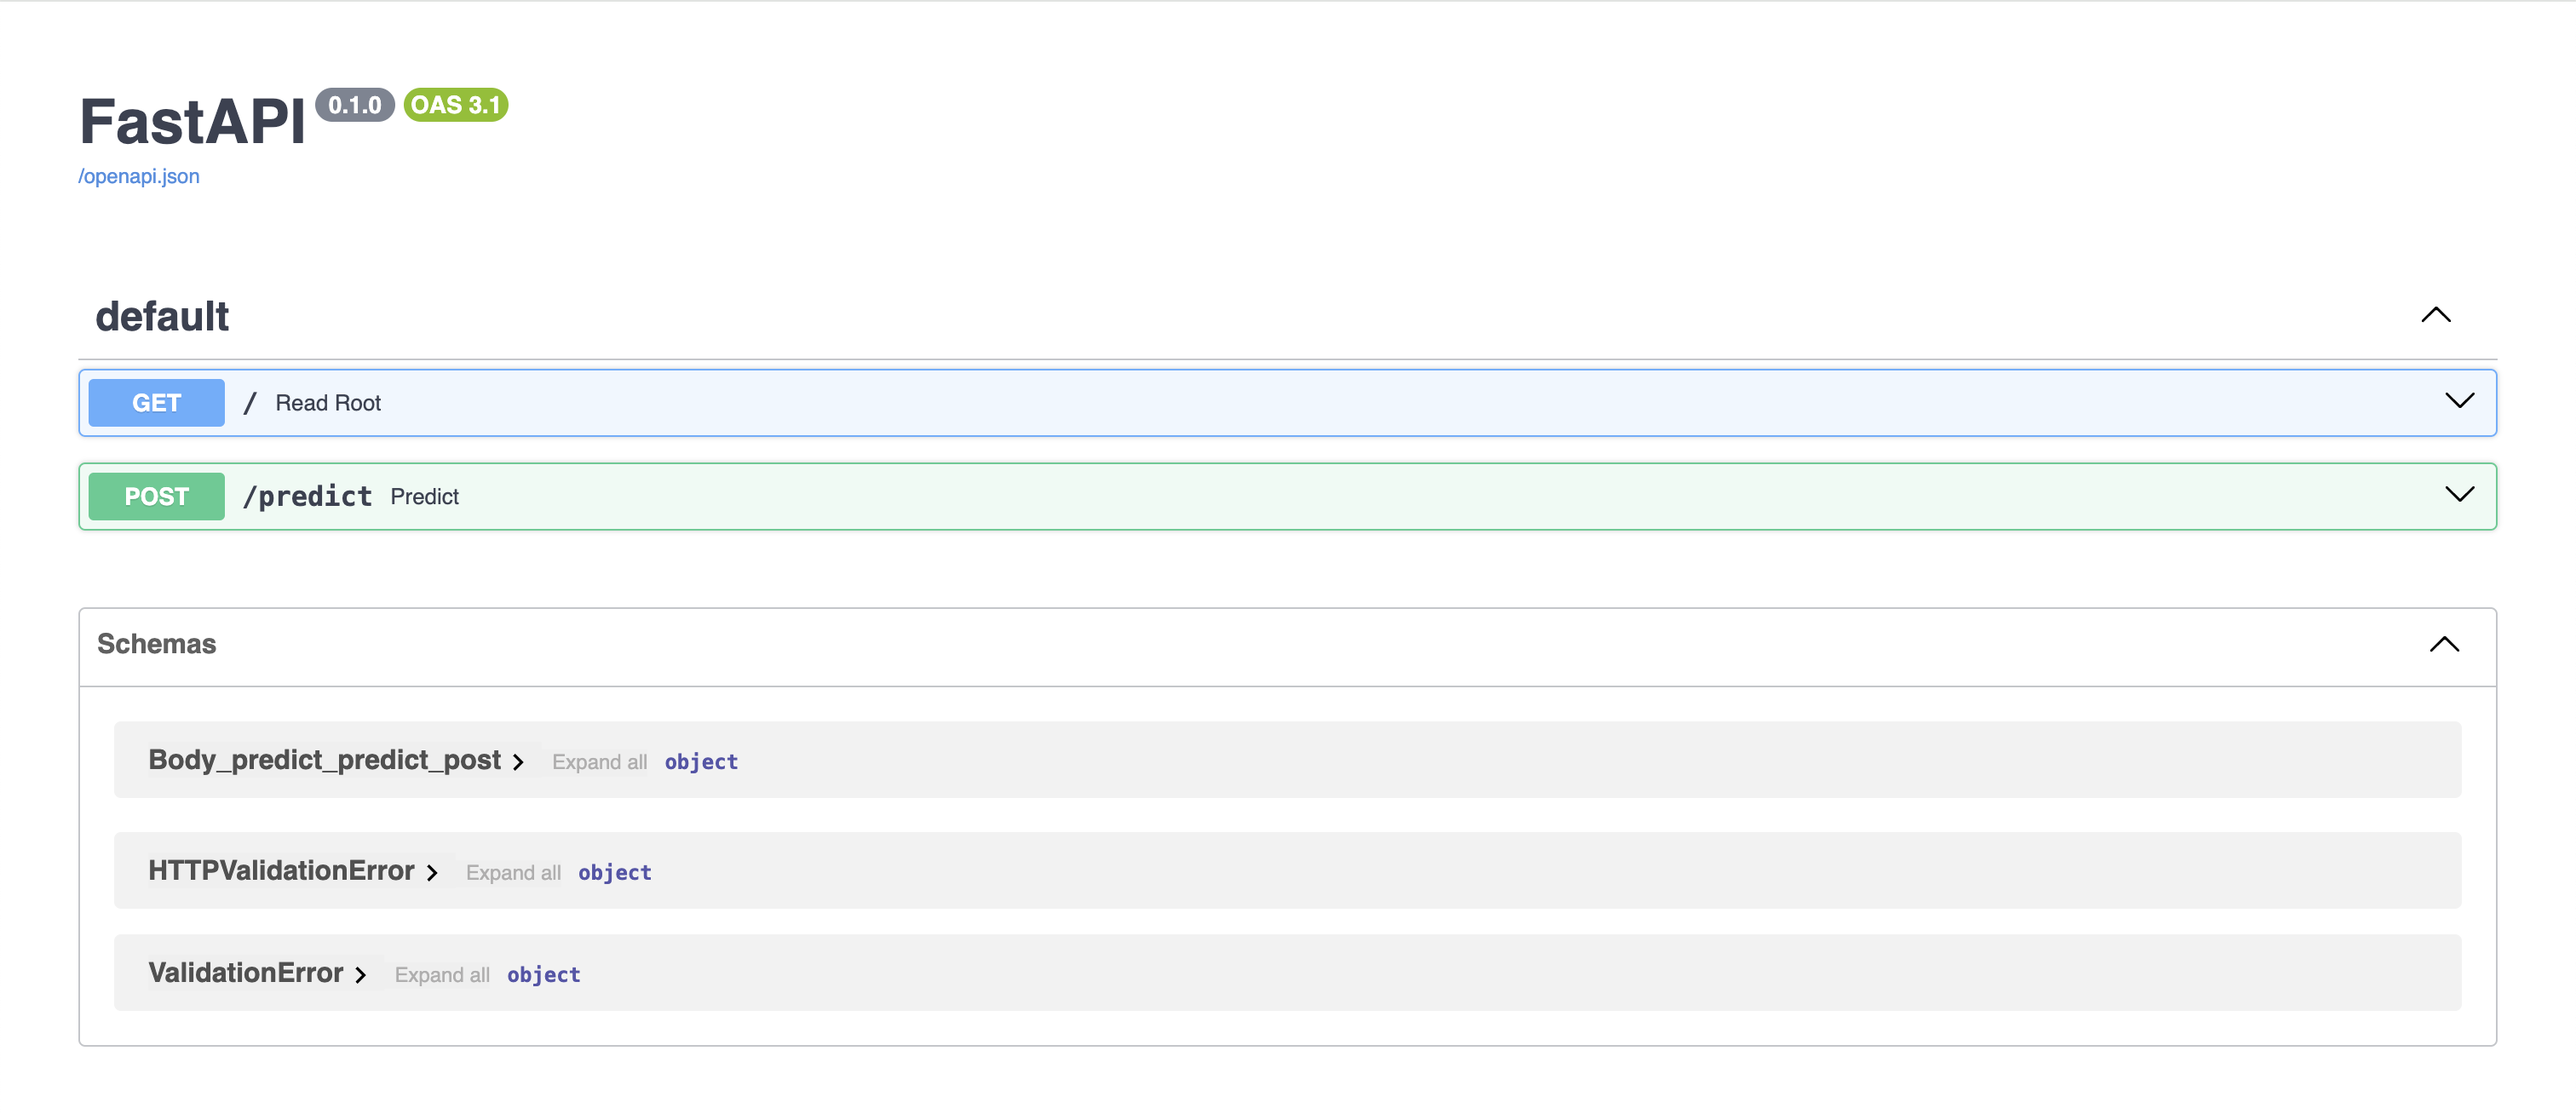
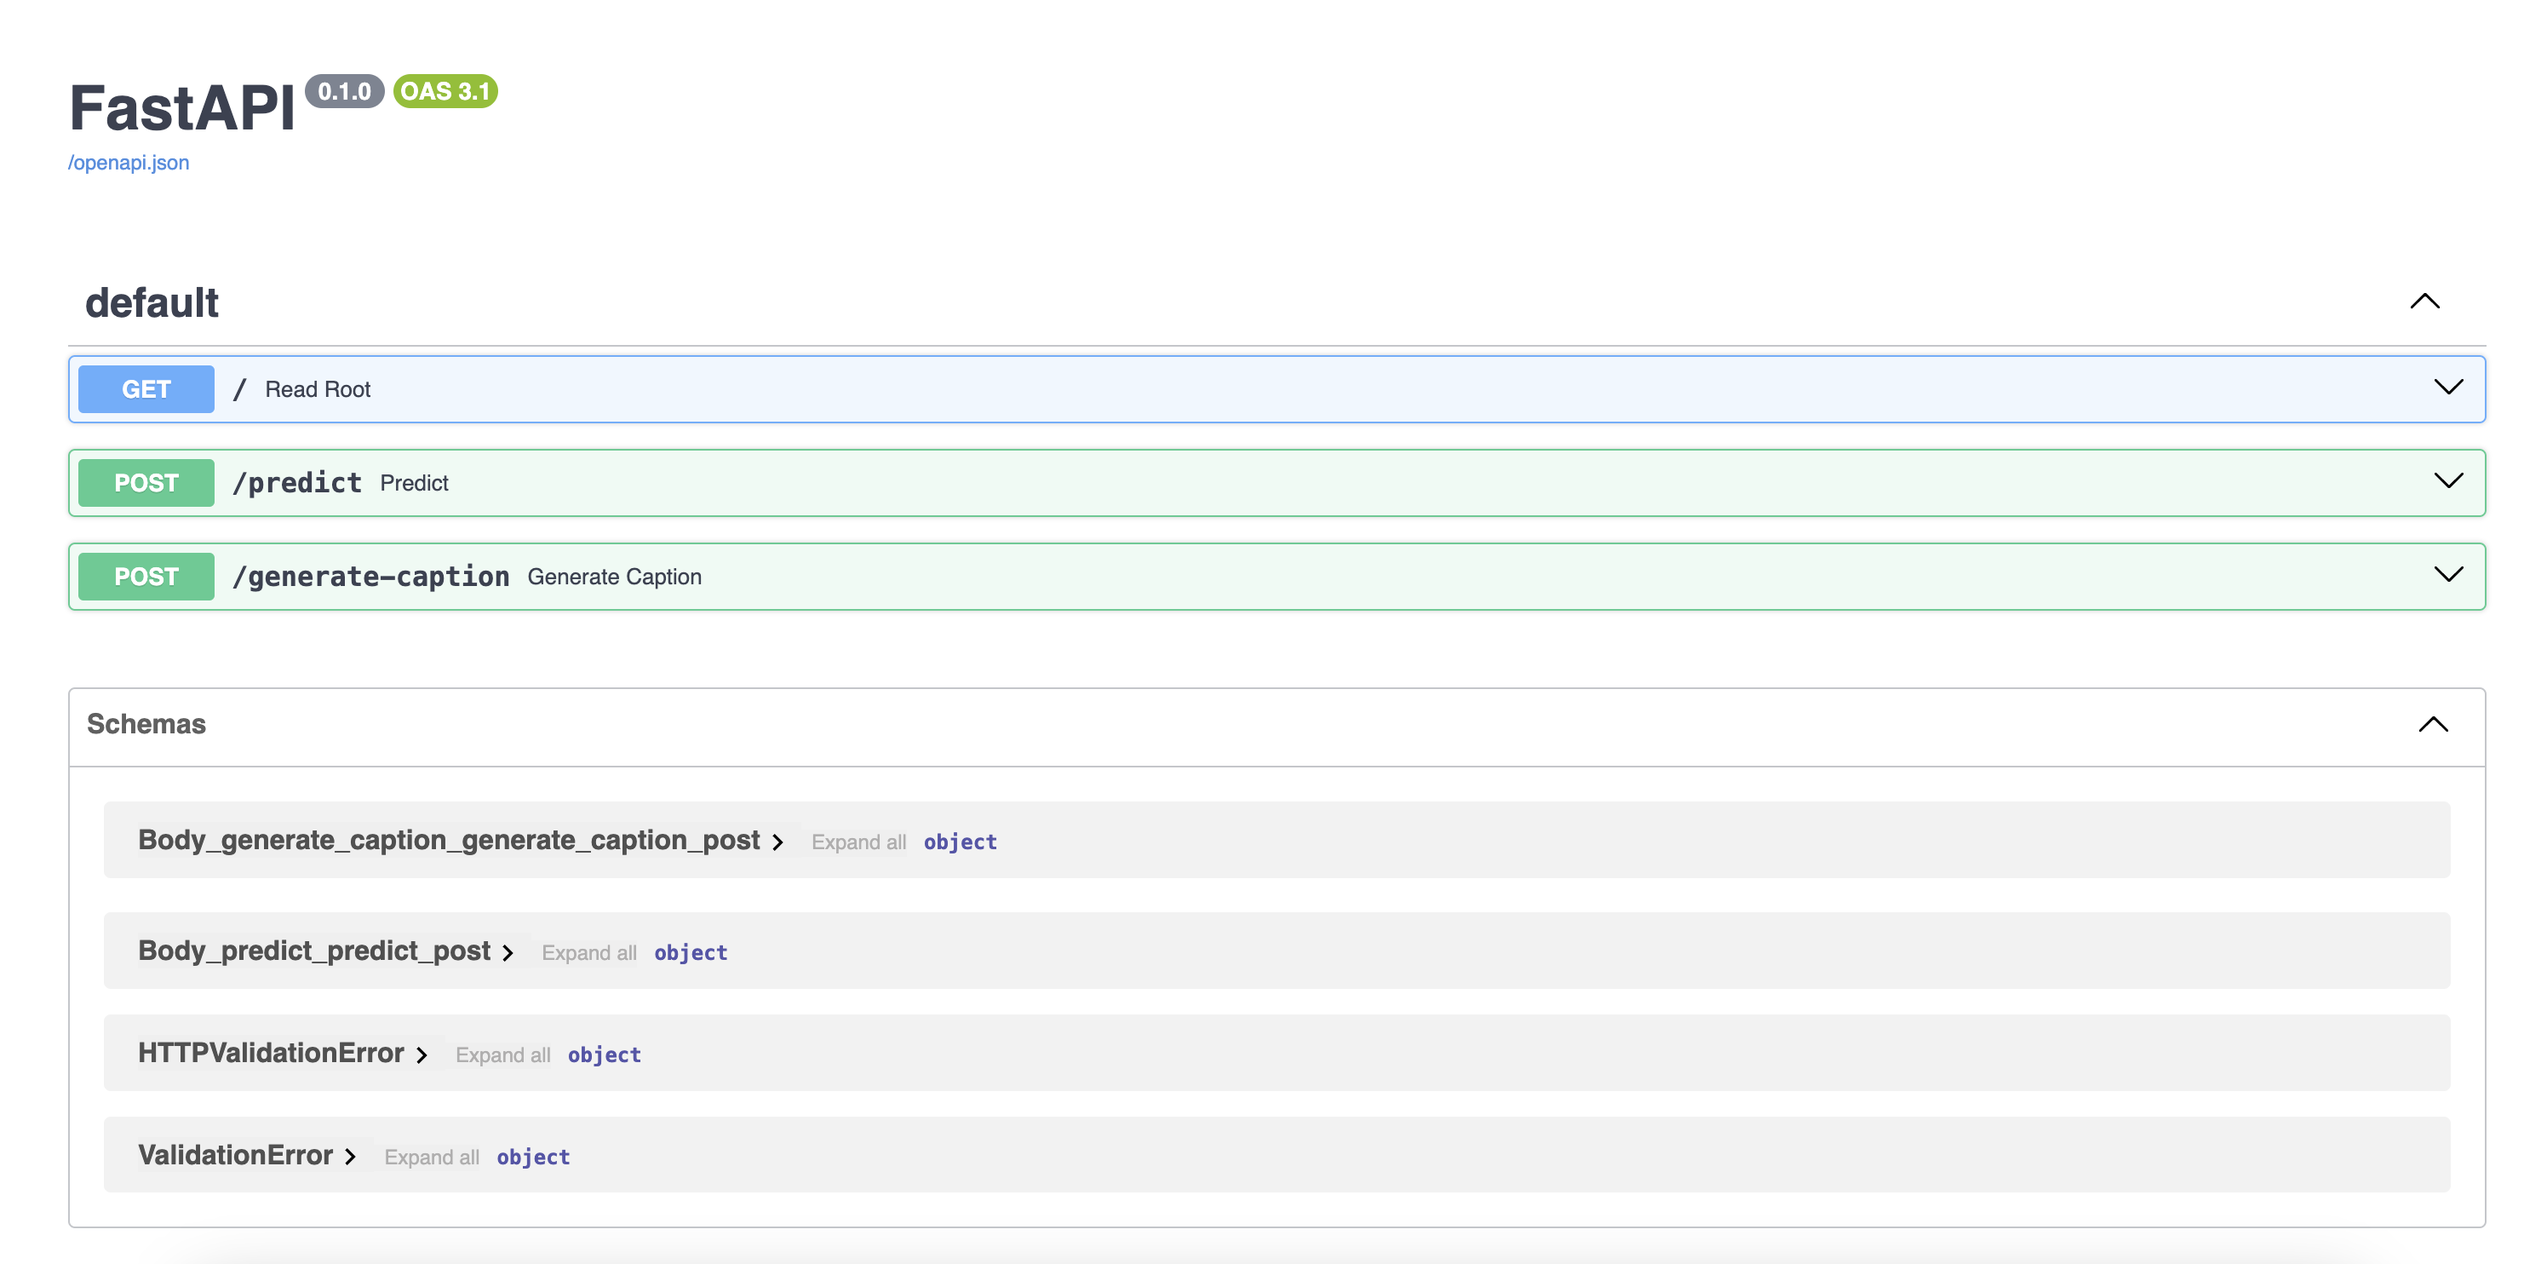
visual improvements

diff --git a/src/frontend/image-year-predictor/src/App.js b/src/frontend/image-year-predictor/src/App.js
@@ -38,8 +38,10 @@ function App() {
   };
 
   const [file, setFile] = useState(null);
-  const [prediction, setPrediction] = useState(null);
-  const [loading, setLoading] = useState(false); // Loading state to handle API call
+  const [predictedYear, setPredictedYear] = useState(null);
+  const [generatedCaption, setGeneratedCaption] = useState(null);
+  const [loadingYear, setLoadingYear] = useState(false);
+  const [loadingCaption, setLoadingCaption] = useState(false);
   const [imageUrl, setImageUrl] = useState(null); // State to hold image URL for preview
 
   const handleFileChange = (e) => {
@@ -60,7 +62,8 @@ function App() {
       return;
     }
 
-    setLoading(true); // Set loading state when the file is being submitted
+    setLoadingYear(true); // Set loading state when the file is being submitted
+    setPredictedYear(null); // Clear the previous prediction
     const formData = new FormData();
     formData.append("file", file);
 
@@ -75,32 +78,99 @@ function App() {
       }
       const data = await response.json();
       const predictedClass = data.predicted_class;
-      setPrediction(predictedClass); // Set the predicted class label
+      setPredictedYear(predictedClass); // Set the predicted class label
     } catch (error) {
       alert("Error: " + error.message);
     } finally {
-      setLoading(false); // Reset loading state after the request
+      setLoadingYear(false); // Reset loading state after the request
     }
   };
 
-  return (
-    <div className="App">
-      {/* Background container */}
-      <div className="background-container" style={backgroundStyle}></div>
-      <h1>DecAide: The Virtual Fashion Historian</h1>
-      <p><i>This tool is for celebrity stylists who need an efficient way to understand historical fashion references to style their clients 
-      using clothing featured on high fashion runways.</i></p>
-      <br />
-      <h3>Upload an image here:</h3>
-      <p><small>Supported file types: .jpg, .jpeg, .png, .webp</small></p>
-      <input type="file" onChange={handleFileChange} />
-      {imageUrl && <img src={imageUrl} alt="Uploaded" style={{ width: '300px', marginTop: '20px' }} />}
-      <button onClick={handleSubmit} disabled={loading}>
-        {loading ? 'Predicting...' : 'Predict Year'}
-      </button>
-      {prediction && <h2>Predicted Year: {prediction}</h2>}
+  const handleCaptionSubmit = async () => {
+    if (!file) {
+      alert("Please upload a file before submitting!");
+      return;
+    }
+
+    setLoadingCaption(true); // Set loading state when the file is being submitted
+    setGeneratedCaption(null); // Clear the previous caption
+    const formData = new FormData();
+    formData.append("file", file);
+
+    try {
+      const response = await fetch("http://localhost:8000/generate-caption", {
+        method: "POST",
+        body: formData,
+      });
+
+      if (!response.ok) {
+        throw new Error("Failed to generate caption");
+      }
+      const data = await response.json();
+      const caption = data.caption;
+      setGeneratedCaption(caption); // Set the generated caption
+    } catch (error) {
+      alert("Error: " + error.message);
+    } finally {
+      setLoadingCaption(false); // Reset loading state after the request
+    }
+};
+
+
+return (
+  <div className="App">
+    {/* Background container */}
+    <div className="background-container" style={backgroundStyle}></div>
+    <div className="banner">
+  <h1>DecAide: The Virtual Fashion Historian</h1>
+  <p><i>This tool is for celebrity stylists who need an efficient way to understand historical fashion references to style their clients 
+  using clothing featured on high fashion runways.</i></p>
+  </div>
+    <br />
+    
+    <div className="content-container">
+      {/* Left column: Predicted Year and Caption */}
+      <div className="left-column">
+      <h3>1. Upload an image here:</h3>
+        <p><small>Supported file types: .jpg, .jpeg, .png, .webp</small></p>
+        {/* Custom file upload button */}
+    <label htmlFor="file-upload" className="action-button">
+      Choose File
+    </label>
+    <input
+      id="file-upload"
+      type="file"
+      onChange={handleFileChange}
+      style={{ display: 'none' }} // Hide the default input
+    />
+        <div className="image-container">
+        {imageUrl && <img src={imageUrl} alt="Uploaded" style={{ width: 'auto', height: '400px', maxWidth: '400px' }} />}
     </div>
-  );
+        
+      </div>
+      
+      {/* Right column: Display uploaded image */}
+<div className="right-column">
+  <div className="section">
+    <h3>2. Predict the year:</h3>
+    <button onClick={handleSubmit} disabled={loadingYear} className="action-button">
+      {loadingYear ? 'Predicting...' : 'Predict Year'}
+    </button>
+    {predictedYear && <h2 className="result">{`${predictedYear}`}</h2>}
+  </div>
+
+  <div className="section">
+    <h3>3. Generate a caption:</h3>
+    <button onClick={handleCaptionSubmit} disabled={loadingCaption} className="action-button">
+      {loadingCaption ? 'Generating Caption...' : 'Generate Caption'}
+    </button>
+    {generatedCaption && <p className="result">{`${generatedCaption}`}</p>}
+  </div>
+</div>
+    </div>
+  </div>
+);
+
 }
 
 export default App;

diff --git a/src/frontend/image-year-predictor/src/App.css b/src/frontend/image-year-predictor/src/App.css
@@ -110,3 +110,117 @@
   background-color: rgba(0, 0, 0, 0.3); /* Adjust opacity here */
   z-index: -1; /* Ensure overlay is behind content */
 }
+
+/* Two-column layout styles */
+.content-container {
+  display: flex;
+  justify-content: space-between;
+  gap: 20px;
+  max-width: 1200px;
+  width: 100%;
+  margin: 20px auto; /* Center the content container */
+}
+
+.left-column {
+  flex: 1.5;
+  padding: 20px;
+  border: 1px solid transparent;
+  border-radius: 8px;
+  background-color: transparent;
+  text-align: left;
+}
+
+.right-column {
+  flex: 1;
+  padding: 20px;
+  display: flex;
+  justify-content: left;
+  text-align: left;
+  border: 1px solid transparent;
+  border-radius: 8px;
+  background-color: transparent;
+  gap: 30px;
+  flex-direction: column;  /* Stack sections vertically */
+  align-items: flex-start;  /* Align to the left for better spacing */
+}
+
+.section {
+  padding: 10px;  /* Add padding for a better look */
+  border-radius: 8px;  /* Optional: round corners */
+  background-color: transparent;  /* Semi-transparent background */
+  width: 100%;  /* Ensure each section takes full width */
+}
+
+.action-button {
+  padding: 10px 20px;
+  margin-top: 10px;
+  background-color: #007bff;
+  color: white;
+  border: none;
+  border-radius: 5px;
+  cursor: pointer;
+}
+
+.action-button:disabled {
+  background-color: #aaa;
+}
+
+/* Image container for better control */
+.image-container {
+  margin-top: 20px; /* Space between the button and the image */
+}
+
+/* Font for action buttons */
+.action-button {
+  font-family: 'Ostrich Sans', sans-serif; /* Change this to your desired font */
+  font-weight: 300; /* Light font weight */
+  font-size: 16px; /* Adjust size as needed */
+  padding: 10px 20px; /* Optional: adjust the padding for better button appearance */
+  cursor: pointer; /* Makes the button clickable */
+  border: none; /* Optional: remove default border */
+  background-color: rgba(166, 14, 72, 0.7); /* Optional: change background color */
+  color: white; /* Optional: change text color */
+  border-radius: 5px; /* Optional: rounded corners */
+  transition: background-color 0.3s; /* Optional: smooth background color transition on hover */
+}
+
+.action-button:hover {
+  background-color: rgb(166, 14, 72); /* Optional: change background color on hover */
+}
+
+h1, h2, h4, p {
+  position: relative;
+  z-index: 3; /* Ensure text is on top of background */
+  font-family: 'Ostrich Sans', sans-serif;
+  font-weight: 300; /* Light font weight */
+}
+
+h3 {
+  position: relative;
+  z-index: 3; /* Ensure text is on top of background */
+  font-family: 'Ostrich Sans', sans-serif;
+  font-weight: 400; /* Regular font weight */
+}
+
+
+
+body {
+  margin: 0;
+  font-family: 'Ostrich Sans', sans-serif;
+  font-weight: 400; /* Regular font weight */
+  -webkit-font-smoothing: antialiased;
+  -moz-osx-font-smoothing: grayscale;
+  position: relative;
+}
+
+.banner {
+  background-color: rgba(183, 11, 83, 0.7); /* Dark red/pink background */
+  color: white;  /* White text */
+  padding: 20px;  /* Space inside the banner */
+  text-align: center;  /* Center-align the text */
+  position: relative;
+  top: 0;
+  width: 100%;
+  font-family: 'Ostrich Sans', sans-serif;
+  font-weight: 300; /* Light font weight */
+}

diff --git a/src/frontend/image-year-predictor/src/index.css b/src/frontend/image-year-predictor/src/index.css
@@ -1,18 +1,6 @@
-body {
-  margin: 0;
-  font-family: 'Prata', serif, -apple-system, BlinkMacSystemFont, 'Segoe UI', 'Roboto', 'Oxygen', 'Ubuntu', 'Cantarell', 'Fira Sans', 'Droid Sans', 'Helvetica Neue', sans-serif;
-  -webkit-font-smoothing: antialiased;
-  -moz-osx-font-smoothing: grayscale;
-  position: relative;
-}
-
-
 code {
   font-family: source-code-pro, Menlo, Monaco, Consolas, 'Courier New',
     monospace;
 }
 
-h1, h2, h3, h4, p {
-  position: relative;
-  z-index: 3; /* Ensure text is on top of background */
-}
+

diff --git a/src/frontend/image-year-predictor/public/index.html b/src/frontend/image-year-predictor/public/index.html
@@ -26,7 +26,7 @@
     -->
     <title>DecAide</title>
     <!-- Add this to the <head> section of index.html to change the font -->
-    <link href="https://fonts.googleapis.com/css2?family=Prata&display=swap" rel="stylesheet">
+      <link href="https://fonts.googleapis.com/css2?family=Ostrich+Sans:wght@300&display=swap" rel="stylesheet">
 
   </head>
   <body>

diff --git a/src/api-service/main.py b/src/api-service/main.py
@@ -7,6 +7,7 @@ import io
 from fastapi.middleware.cors import CORSMiddleware
 import logging
 import joblib
+from transformers import BlipProcessor, BlipForConditionalGeneration
 
 # Initialize FastAPI app
 app = FastAPI()
@@ -22,6 +23,10 @@ app.add_middleware(
 
 # Add logging to see FastAPI startup
 logging.basicConfig(level=logging.DEBUG)
+
+# Initialize the image captioning model (BLIP in this case)
+captioning_processor = BlipProcessor.from_pretrained("Salesforce/blip-image-captioning-base")
+captioning_model = BlipForConditionalGeneration.from_pretrained("Salesforce/blip-image-captioning-base")
 
 @app.on_event("startup")
 async def startup():
@@ -128,3 +133,33 @@ async def predict(file: UploadFile = File(...)):
     except Exception as e:
         logging.error(f"Error during prediction: {e}")
         return JSONResponse(content={"error": str(e)}, status_code=500)
+
+@app.post("/generate-caption")
+async def generate_caption(file: UploadFile = File(...)):
+    logging.debug("Received POST request to /generate-caption")
+    logging.debug(f"File received: {file.filename}")
+
+    # Check if the file is a JPG, PNG, or webp image
+    if not file.filename.lower().endswith(('.jpg', '.jpeg', ".png", ".webp")):
+        raise HTTPException(status_code=400, detail="Invalid file format. Please upload a JPG, JPEG, PNG, or WebP image.")
+    
+    try:
+        # Read the image file
+        contents = await file.read()
+        image = Image.open(io.BytesIO(contents))
+
+        # Preprocess the image for caption generation
+        logging.debug(f"Processing image for caption generation: {file.filename}")
+        inputs = captioning_processor(images=image, return_tensors="pt")
+
+        # Generate caption
+        output = captioning_model.generate(**inputs, max_new_tokens = 100, temperature=0.7, num_beams=5)
+        caption = captioning_processor.decode(output[0], skip_special_tokens=True)
+        logging.debug(f"Generated caption: {caption}")
+
+        return JSONResponse(content={"caption": caption})
+    
+    except Exception as e:
+        logging.error(f"Error during caption generation: {e}")
+        return JSONResponse(content={"error": str(e)}, status_code=500)
+    
